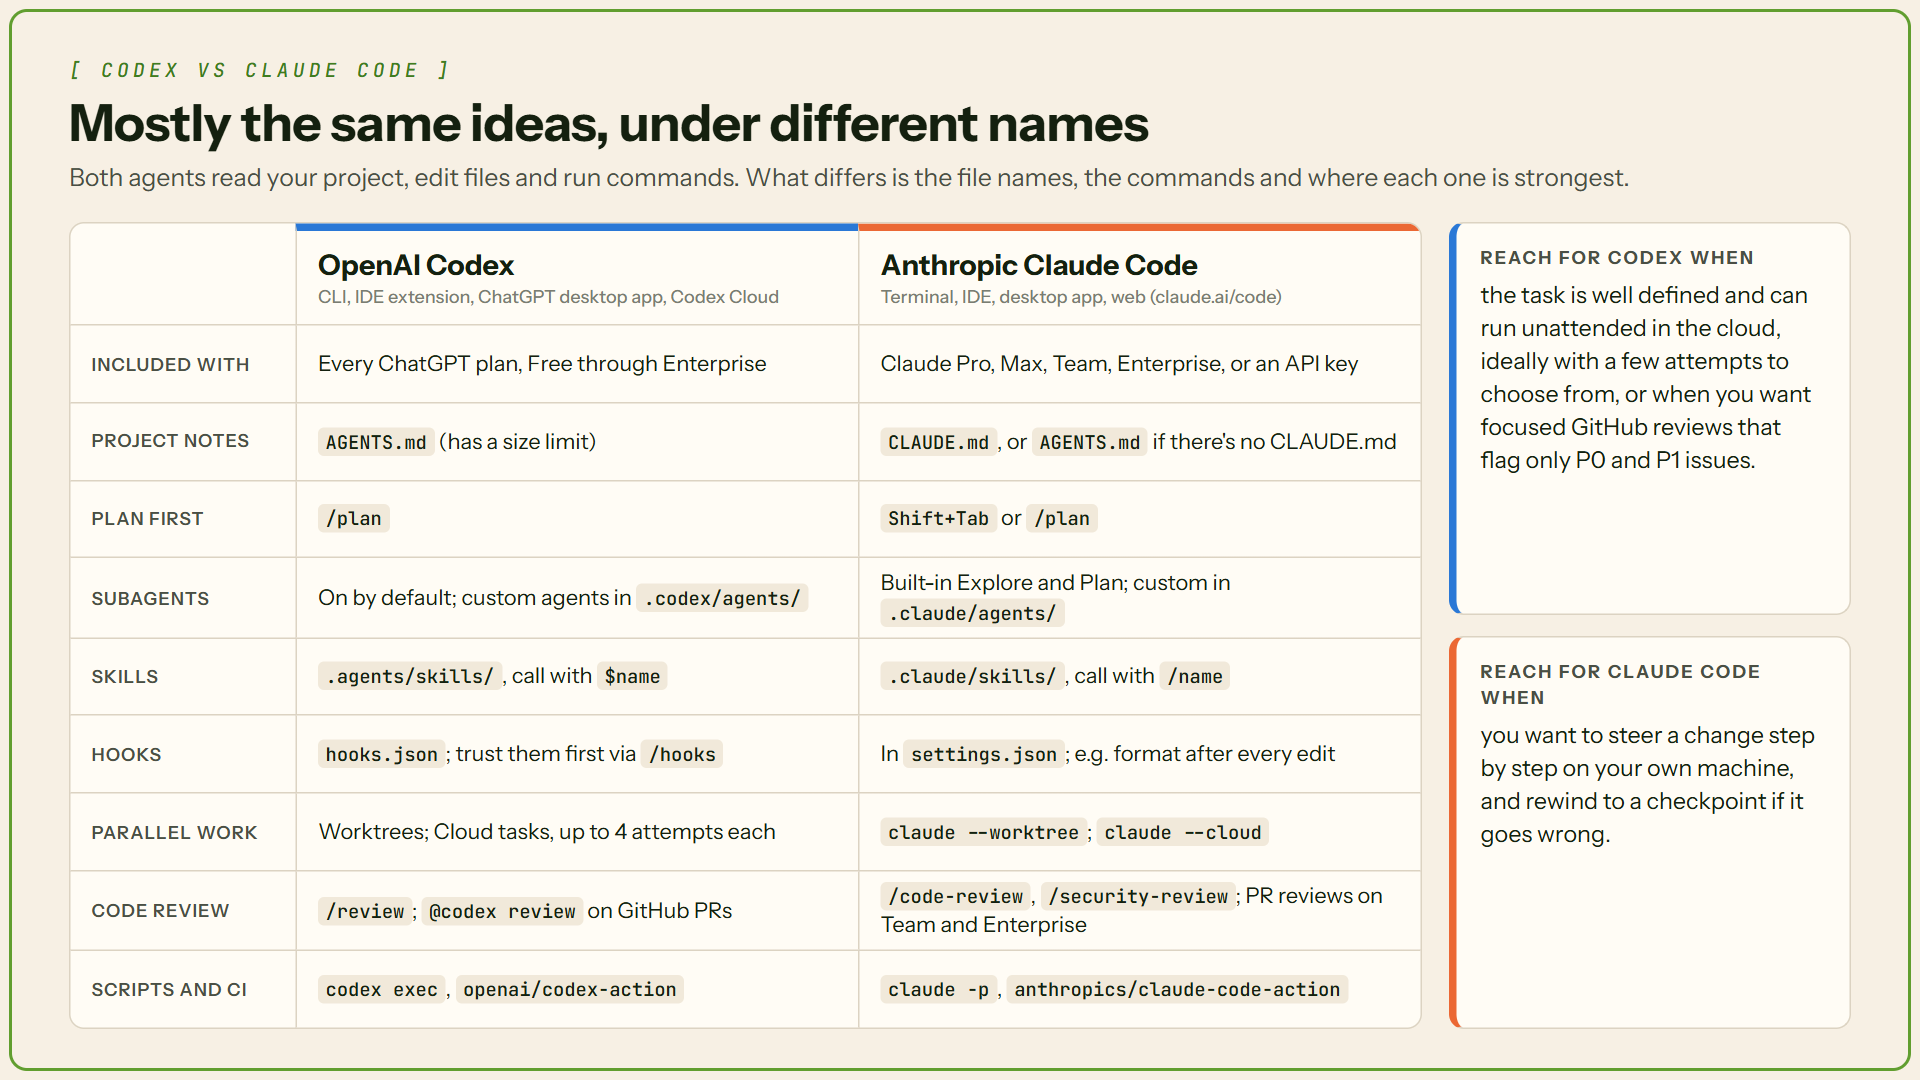
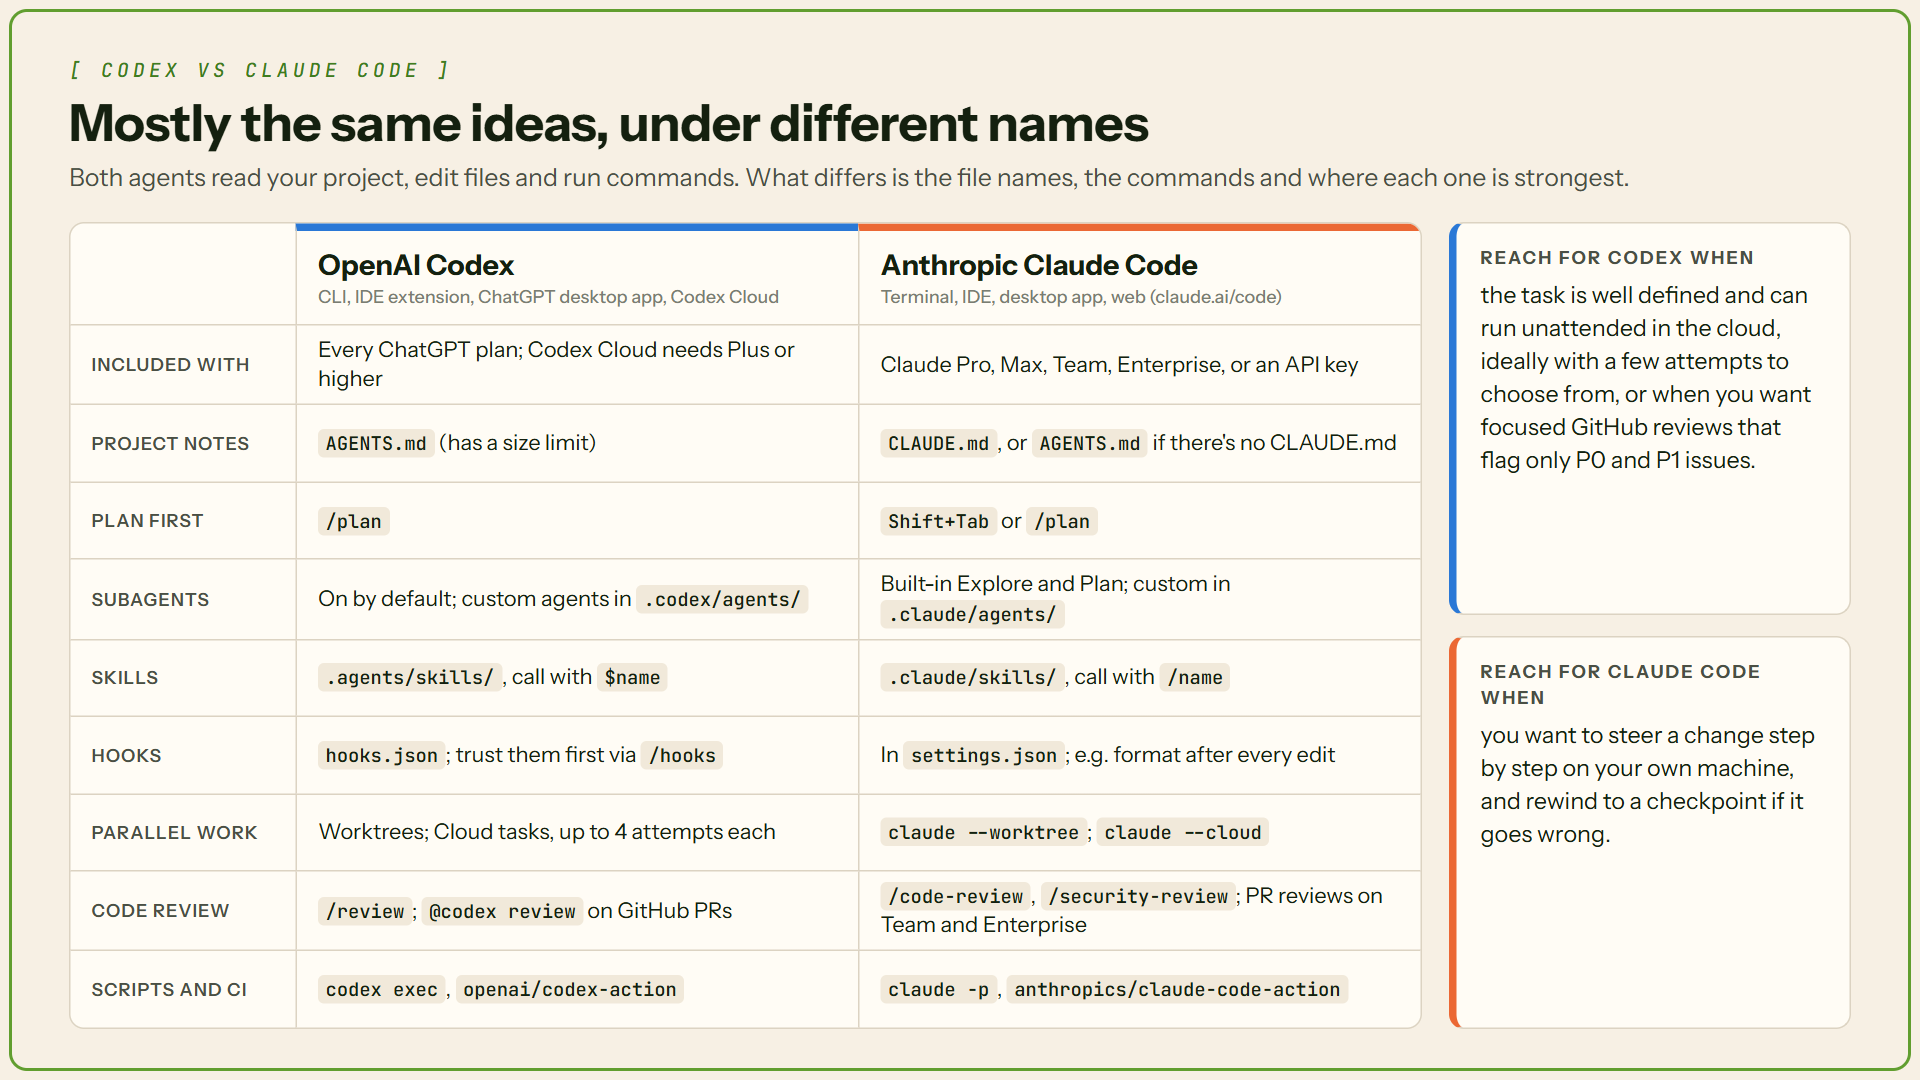
Fix Codex Cloud plan availability and --attempts wording
Codex Cloud is not included with Free or Go, so the plan line, the
start-here box and Figure 1 now say it needs Plus or higher. The
--attempts sentence now names codex cloud exec and shows an example.

diff --git a/codex-claude-one-person-engineering-team/index.html b/codex-claude-one-person-engineering-team/index.html
@@ -354,21 +354,21 @@
 <h2 id="side-by-side">⚖ Codex and Claude Code side by side</h2>
 
 <ul>
-  <li><strong>Codex (OpenAI)</strong> runs in the terminal, your IDE, the ChatGPT desktop app and Codex Cloud. It's <a href="https://learn.chatgpt.com/docs/pricing" target="_blank">included in every ChatGPT plan</a>, even Free. The old Codex app moved into the ChatGPT desktop app in July 2026.</li>
+  <li><strong>Codex (OpenAI)</strong> runs in the terminal, your IDE, the ChatGPT desktop app and Codex Cloud. Codex is <a href="https://learn.chatgpt.com/docs/pricing" target="_blank">included in every ChatGPT plan</a>, even Free. Codex Cloud is not: it isn't included with Free or Go, so you need Plus or a higher plan. The old Codex app moved into the ChatGPT desktop app in July 2026.</li>
   <li><strong>Claude Code (Anthropic)</strong> runs in the terminal, your IDE, a desktop app and the browser. It <a href="https://code.claude.com/docs/en/feature-availability" target="_blank">needs a paid Claude plan</a> (Pro, Max, Team or Enterprise) or an API key.</li>
 </ul>
 
 <p>Most features exist in both, under different names. Figure 1 lines them up.</p>
 
 <figure class="article-image">
-  <a class="zoom" href="https://padmashri23.github.io/under-the-hood/codex-claude-one-person-engineering-team/images/codex-vs-claude-code.png" target="_blank"><img src="https://padmashri23.github.io/under-the-hood/codex-claude-one-person-engineering-team/images/codex-vs-claude-code.png" onerror="this.onerror=null;this.src='images/codex-vs-claude-code.png'" width="1920" height="1080" loading="lazy" alt="Comparison table of OpenAI Codex and Anthropic Claude Code. Codex: included in every ChatGPT plan, AGENTS.md with a 32 KiB default cap, /plan, subagents on by default, skills in .agents/skills called with $name, hooks.json trusted via /hooks, worktrees and cloud tasks with up to 4 attempts, /review and @codex review, codex exec. Claude Code: Pro, Max, Team, Enterprise or API key, CLAUDE.md or AGENTS.md, Shift+Tab or /plan, built-in Explore and Plan subagents, skills in .claude/skills called with /name, hooks in settings.json, claude --worktree and claude --cloud, /code-review and /security-review, claude -p."></a>
+  <a class="zoom" href="https://padmashri23.github.io/under-the-hood/codex-claude-one-person-engineering-team/images/codex-vs-claude-code.png" target="_blank"><img src="https://padmashri23.github.io/under-the-hood/codex-claude-one-person-engineering-team/images/codex-vs-claude-code.png" onerror="this.onerror=null;this.src='images/codex-vs-claude-code.png'" width="1920" height="1080" loading="lazy" alt="Comparison table of OpenAI Codex and Anthropic Claude Code. Codex: included in every ChatGPT plan, with Codex Cloud on Plus or higher, AGENTS.md with a 32 KiB default cap, /plan, subagents on by default, skills in .agents/skills called with $name, hooks.json trusted via /hooks, worktrees and cloud tasks with up to 4 attempts, /review and @codex review, codex exec. Claude Code: Pro, Max, Team, Enterprise or API key, CLAUDE.md or AGENTS.md, Shift+Tab or /plan, built-in Explore and Plan subagents, skills in .claude/skills called with /name, hooks in settings.json, claude --worktree and claude --cloud, /code-review and /security-review, claude -p."></a>
   <figcaption>Figure 1. Each feature's name in both tools, from the official docs (October 30, 2026). The "reach for" lines are our advice. Tap any figure to open it full size.</figcaption>
 </figure>
 
 <div class="keypoints">
   <div class="kp-title">Which one should I start with?</div>
   <ul>
-    <li>Already use ChatGPT, even the free plan? Start with Codex.</li>
+    <li>Already use ChatGPT, even the free plan? Start with Codex. Cloud tasks need Plus or higher.</li>
     <li>Already pay for a Claude plan? Start with Claude Code.</li>
     <li>All seven tricks work in either tool. You don't need both to begin.</li>
   </ul>
@@ -441,7 +441,7 @@
 
 <ul>
   <li><strong>Claude Code:</strong> <code>claude --cloud "Fix the flaky date test"</code> starts a cloud session. A flaky test is one that sometimes passes and sometimes fails.</li>
-  <li><strong>Codex:</strong> a Codex Cloud task <a href="https://learn.chatgpt.com/docs/cloud" target="_blank">"can keep working while your computer is asleep."</a> The experimental <code>--attempts</code> option runs up to four separate attempts at the same task, so you can keep the best result.</li>
+  <li><strong>Codex:</strong> a Codex Cloud task <a href="https://learn.chatgpt.com/docs/cloud" target="_blank">"can keep working while your computer is asleep."</a> The experimental <code>--attempts</code> flag on <code>codex cloud exec</code> runs 1 to 4 separate attempts at the same task, so you can keep the best result. For example: <code>codex cloud exec --env ENV_ID --attempts 3 "Fix the flaky date test"</code>.</li>
 </ul>
 
 <figure class="article-image">

diff --git a/codex-claude-one-person-engineering-team/README.md b/codex-claude-one-person-engineering-team/README.md
@@ -26,7 +26,7 @@ Seven practical, documented techniques for OpenAI Codex and Anthropic's Claude C
 - A short conclusion
 - A link to the earlier Under the Hood article on AI agent guardrails
 
-Figure 1 doubles as the at-a-glance command comparison. Written for beginners and tech starters: a key points box, a glossary of the basic terms (terminal, IDE, branch, pull request, tokens, CI), sentences averaging about 13 words, and every trick in the same pattern (the idea in plain words, then a Codex bullet and a Claude Code bullet, then a prompt to try or a "Good to know" note). Emoji section headings with subheadings so the outline shows up in Notion's table of contents. About 2,470 words above Sources & References, counting headings, captions, tables and about 90 words of copy-and-paste starter files (a notes file, a SKILL.md and a formatter hook).
+Figure 1 doubles as the at-a-glance command comparison. Written for beginners and tech starters: a key points box, a glossary of the basic terms (terminal, IDE, branch, pull request, tokens, CI), sentences averaging about 13 words, and every trick in the same pattern (the idea in plain words, then a Codex bullet and a Claude Code bullet, then a prompt to try or a "Good to know" note). Emoji section headings with subheadings so the outline shows up in Notion's table of contents. About 2,510 words above Sources & References, counting headings, captions, tables and about 90 words of copy-and-paste starter files (a notes file, a SKILL.md and a formatter hook).
 
 ## Visuals
 
